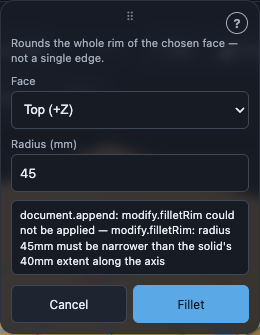
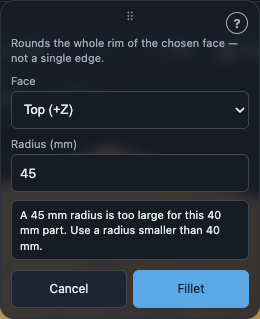
fix(ui): plain fillet, size and broken-step messages (TODO/ui-129)
The fillet, size-field and broken-step messages came from the kernel and the document in the form the console and the tests need: an op id, a parameter path, record ids and lineage wording. Those reached the people using the popovers, the Inspector, the History row and the Assistant's activity log unchanged. A new framework-free module, src/core/userReason.js, maps the known messages to plain sentences. It is applied only at the display points, and it returns any message it does not know unchanged. The console, the MCP tools and the tests still get the raw text.

Resolves TODO/FIND-ui-129-error-and-repair-wording-leaks-internals.md (moved to TODO/done/ui-129-error-and-repair-wording-leaks-internals.md). The broken History row's layout half is filed as TODO/FIND-ui-146-broken-history-row-one-name-and-visible-repair.md (split recorded as OWNER.md Q98). The problems were filed from the testing-029 cold-read panel.

Examples: a 45 mm fillet radius on a 40 mm part reads "A 45 mm radius is too large for this 40 mm part. Use a radius smaller than 40 mm." A zero height reads "Height must be more than 0 mm." The superseded-step message drops the record ids and lineage wording. plainIdsIn tidies replica ids in the Assistant's activity rows (cuboid-k3f5xa-1 reads Cuboid 1) and keeps the full text in a tooltip. The Assistant's image notice now says the image is billed to the user's own API key (OWNER.md Q12).
[…]

diff --git a/src/core/userReason.js b/src/core/userReason.js
@@ -1,0 +1,98 @@
+// SPDX-License-Identifier: AGPL-3.0-or-later
+/**
+ * The plain-language sentence for a kernel or document message, for the **display boundary**
+ * only (`TODO/ui-129`).
+ *
+ * The kernel's messages name the op and the parameter (`primitive.cylinder: height must be a
+ * positive number of millimetres, got 0`) because the console, the MCP tools and the tests need
+ * exactly that. A person reading the Inspector, a popover or a History row needs the sentence.
+ * This maps the known messages to one and returns anything it does not know untouched, so a new
+ * kernel message degrades to its raw text and never to an empty string.
+ *
+ * Framework-free and pure: it never reads the document and never throws.
+ *
+ * @module core/userReason
+ */
+
+/** A replica's project tag: base-36 digits and letters, at least one digit (so `phone` is a word, not a tag). */
+const TAG = '(?=[a-z]*\\d)[a-z0-9]{4,8}'
+/** `cuboid-k3f5xa-1`: a kind, the project tag, a counter. Groups: kind, counter (the whole is group 0). */
+const BASE_ID = `([a-z][a-z0-9]*)-${TAG}-(\\d+)`
+const ID_IN_TEXT = new RegExp(`\\b[a-z][a-z0-9]*-${TAG}-\\d+(?:-[a-z]+-${TAG}-\\d+)?\\b`, 'g')
+
+/** `size[0]` → `Size X`; `height` → `Height`; `cornerRadius` → `Corner radius`. */
+const AXES = ['X', 'Y', 'Z']
+
+/**
+ * @param {string} key a parameter path as the kernel names it
+ * @returns {string} the label a person would read
+ */
+function labelOfParam(key) {
+  const indexed = /^(\w+)\[(\d)\]$/.exec(key)
+  if (indexed) return `${labelOfParam(indexed[1])} ${AXES[Number(indexed[2])] ?? indexed[2]}`
+  const words = key.replace(/([a-z0-9])([A-Z])/g, '$1 $2').toLowerCase()
+  return words.charAt(0).toUpperCase() + words.slice(1)
+}
+
+/** @param {string} text @returns {string} the number as a person writes it: no sign, no trailing zeros */
+const plainNumber = (text) => String(Math.abs(Number(text)))
+
+/**
+ * @param {unknown} message a raw `Error.message` (or a string)
+ * @returns {string} a sentence a user can act on, or the message unchanged when it is not one this knows
+ */
+export function userReason(message) {
+  const text = typeof message === 'string' ? message : message instanceof Error ? message.message : String(message ?? '')
+  // The document wraps a rejected record as `document.append: <op> could not be applied — <kernel text>`.
+  const core = text.replace(/^document\.append: /, '').replace(/^\S+ could not be applied — /, '')
+
+  // A fillet or chamfer radius at or past the solid's extent.
+  const fillet = /^[\w.]+: radius (-?[\d.]+)mm must be narrower than the solid's ([\d.]+)mm extent along the axis$/.exec(core)
+  if (fillet) {
+    return `A ${plainNumber(fillet[1])} mm radius is too large for this ${plainNumber(fillet[2])} mm part. Use a radius smaller than ${plainNumber(fillet[2])} mm.`
+  }
+
+  // A size field that must be more than zero.
+  const positive = /^[\w.]+: ([\w[\]]+) must be a positive number of millimetres, got .*$/.exec(core)
+  if (positive) return `${labelOfParam(positive[1])} must be more than 0 mm.`
+
+  // A step that points at a body a later step already replaced.
+  if (/which has itself already been superseded by ".*" — forking a lineage would put two live representations of one body on screen$/.test(core)) {
+    return "This step can't be built because a later step already changed the part it works on, for example a move made after you rolled back. Use Re-link to follow the moved part, or edit the earlier step."
+  }
+  return text
+}
+
+/**
+ * A record id as a person reads it: the project tag every replica adds is dropped, the counter
+ * kept. `cuboid-k3f5xa-1` → `Cuboid 1`; `cuboid-k3f5xa-1-move-k3f5xa-4` → `Move of Cuboid 1 (4)`.
+ * Anything that does not look like a replica id comes back unchanged. The full id stays in the
+ * tooltip, the raw log and the MCP responses; this is for the readout only.
+ *
+ * @param {string} id
+ * @returns {string}
+ */
+export function plainRecordId(id) {
+  const base = new RegExp(`^${BASE_ID}$`).exec(id)
+  if (base) return `${capitalise(base[1])} ${base[2]}`
+  const derived = new RegExp(`^(${BASE_ID})-([a-z]+)-${TAG}-(\\d+)$`).exec(id)
+  if (derived) return `${capitalise(derived[4])} of ${plainRecordId(derived[1])} (${derived[5]})`
+  return id
+}
+
+/**
+ * Every replica id inside a sentence, tidied by {@link plainRecordId}; the rest of the text is
+ * untouched. For a readout that quotes ids (the Assistant's activity rows).
+ *
+ * @param {string} text
+ * @returns {string}
+ */
+export function plainIdsIn(text) {
+  if (typeof text !== 'string' || text === '') return text
+  return text.replace(ID_IN_TEXT, (match) => plainRecordId(match))
+}
+
+/** @param {string} word @returns {string} */
+function capitalise(word) {
+  return word.charAt(0).toUpperCase() + word.slice(1)
+}

diff --git a/src/core/userReason.spec.js b/src/core/userReason.spec.js
@@ -1,0 +1,70 @@
+// SPDX-License-Identifier: AGPL-3.0-or-later
+import { describe, expect, it } from 'vitest'
+
+import { plainIdsIn, plainRecordId, userReason } from './userReason.js'
+
+describe('userReason (TODO/ui-129)', () => {
+  it('words a fillet radius past the extent as a limit, not as an op id', () => {
+    expect(userReason("modify.filletRim: radius 45mm must be narrower than the solid's 40mm extent along the axis")).toBe(
+      'A 45 mm radius is too large for this 40 mm part. Use a radius smaller than 40 mm.',
+    )
+    expect(userReason("modify.chamferRim: radius -45mm must be narrower than the solid's 40mm extent along the axis")).toMatch(/^A 45 mm radius/)
+  })
+
+  it('reads through the document wrapper around a rejected record', () => {
+    expect(
+      userReason("document.append: modify.filletRim could not be applied — modify.filletRim: radius 45mm must be narrower than the solid's 40mm extent along the axis"),
+    ).toBe('A 45 mm radius is too large for this 40 mm part. Use a radius smaller than 40 mm.')
+    expect(userReason('document.append: primitive.cylinder could not be applied — primitive.cylinder: height must be a positive number of millimetres, got 0')).toBe(
+      'Height must be more than 0 mm.',
+    )
+  })
+
+  it('words a size that must be more than zero, for a plain field and an indexed one', () => {
+    expect(userReason('primitive.cylinder: height must be a positive number of millimetres, got 0')).toBe('Height must be more than 0 mm.')
+    expect(userReason('primitive.cuboid: size[0] must be a positive number of millimetres, got -5')).toBe('Size X must be more than 0 mm.')
+    expect(userReason('primitive.cuboid: size[2] must be a positive number of millimetres, got NaN')).toBe('Size Z must be more than 0 mm.')
+    expect(userReason('primitive.tube: cornerRadius must be a positive number of millimetres, got 0')).toBe('Corner radius must be more than 0 mm.')
+  })
+
+  it('words a step that points at an already-replaced body without record ids', () => {
+    const raw =
+      'supersedes "cuboid-k3f5xa-1", which has itself already been superseded by "cuboid-k3f5xa-1-move-k3f5xa-4" — forking a lineage would put two live representations of one body on screen'
+    const plain = userReason(`can't be built: ${raw}`)
+    expect(plain).not.toMatch(/cuboid-|supersed|lineage/)
+    expect(plain).toMatch(/later step already changed the part/)
+    expect(userReason(raw)).toBe(plain)
+  })
+
+  it('returns an unknown message untouched, and never throws or empties', () => {
+    expect(userReason('something the kernel says that this does not know')).toBe('something the kernel says that this does not know')
+    expect(userReason('')).toBe('')
+    expect(userReason(null)).toBe('')
+    expect(userReason(new Error('x: y'))).toBe('x: y')
+  })
+})
+
+describe('plainRecordId (TODO/ui-129)', () => {
+  it('drops the project tag and keeps the counter', () => {
+    expect(plainRecordId('cuboid-k3f5xa-1')).toBe('Cuboid 1')
+    expect(plainRecordId('cylinder-ab12cd-12')).toBe('Cylinder 12')
+  })
+
+  it('reads a derived step as its action on its source', () => {
+    expect(plainRecordId('cuboid-k3f5xa-1-move-k3f5xa-4')).toBe('Move of Cuboid 1 (4)')
+  })
+
+  it('leaves anything that is not a replica id alone', () => {
+    expect(plainRecordId('bolt-1')).toBe('bolt-1')
+    expect(plainRecordId('kit-phone-12')).toBe('kit-phone-12')
+    expect(plainRecordId('')).toBe('')
+  })
+
+  it('tidies every id inside a sentence and nothing else', () => {
+    expect(plainIdsIn('Moved cuboid-k3f5xa-1 by 5 mm, then cuboid-k3f5xa-1-move-k3f5xa-4 to z 3')).toBe(
+      'Moved Cuboid 1 by 5 mm, then Move of Cuboid 1 (4) to z 3',
+    )
+    expect(plainIdsIn('Snapped kit-phone-12 to the grid')).toBe('Snapped kit-phone-12 to the grid')
+    expect(plainIdsIn('')).toBe('')
+  })
+})

diff --git a/src/components/viewport/OperationsToolbar.vue b/src/components/viewport/OperationsToolbar.vue
@@ -330,6 +330,7 @@ import { useSelectionStore } from '../../stores/selection.js'
 import { useSplitSheetStore } from '../../stores/splitSheet.js'
 import { RIM_FACE_OPTIONS } from '../../core/timelineLabel.js'
 import { useTimelineStore } from '../../stores/timeline.js'
+import { userReason } from '../../core/userReason.js'
 import { usePanelLayoutStore } from '../../stores/panelLayout.js'
 import { useTierCrossfade } from '../../composables/useTierCrossfade.js'
 import { usePopoverDrag } from '../../composables/usePopoverDrag.js'
@@ -1846,7 +1847,7 @@ onBeforeUnmount(() => closeGroup())
     <!-- A `pieces` address the kernel rejects, surfaced where it happened
          rather than in the console — the path Fillet/Chamfer established and
          Snap/Align reused (TODO/ui-040). -->
-    <p v-if="runError" class="ops__error" data-testid="operation-error">{{ runError }}</p>
+    <p v-if="runError" class="ops__error" data-testid="operation-error">{{ userReason(runError) }}</p>
 
     <!-- TODO/core-079: a cut with a whole multi-part model runs in the evaluation worker, so the
          app keeps drawing; this line is the feedback that it is on its way. -->
@@ -1901,7 +1902,7 @@ onBeforeUnmount(() => closeGroup())
         <!-- The first user-facing runtime kernel-error path on this toolbar —
              see the module doc's §3 and `commitFilletChamfer`'s own comment. -->
         <p v-if="opError" class="ops__popover-error" data-testid="fillet-chamfer-error">
-          {{ opError }}
+          {{ userReason(opError) }}
         </p>
 
         <div class="ops__popover-actions">
@@ -2028,7 +2029,7 @@ onBeforeUnmount(() => closeGroup())
 
         <!-- Same first-user-facing-kernel-error path Fillet/Chamfer established. -->
         <p v-if="opError" class="ops__popover-error" data-testid="resize-error">
-          {{ opError }}
+          {{ userReason(opError) }}
         </p>
 
         <div class="ops__popover-actions">
@@ -2074,7 +2075,7 @@ onBeforeUnmount(() => closeGroup())
           centre — a symmetric shape then lands exactly on itself.
         </p>
         <p v-if="opError" class="ops__popover-error" data-testid="mirror-error">
-          {{ opError }}
+          {{ userReason(opError) }}
         </p>
         <div class="ops__popover-actions">
           <BaseButton size="compact" fill data-testid="mirror-cancel" @click="closePopover">

diff --git a/src/components/ai/ActivityRow.vue b/src/components/ai/ActivityRow.vue
@@ -19,6 +19,8 @@
  */
 import { computed, ref } from 'vue'
 
+import { plainIdsIn, userReason } from '../../core/userReason.js'
+
 const props = defineProps({
   item: { type: /** @type {import('vue').PropType<import('../../ai/transcript.js').ToolItem>} */ (Object), required: true },
   /** What the assistant did right after this row (error rows only). */
@@ -41,7 +43,7 @@ const expanded = ref(false)
 
 const result = computed(() => {
   if (props.item.status === 'running') return 'working'
-  if (props.item.status === 'error') return props.item.error ?? 'failed'
+  if (props.item.status === 'error') return plainIdsIn(userReason(props.item.error ?? 'failed'))
   if (props.item.status === 'discarded') return 'not kept'
   return ''
 })
@@ -62,9 +64,9 @@ const result = computed(() => {
     >
       <span class="row__glyph" aria-hidden="true">{{ glyph }}</span>
       <span class="row__body">
-        <span class="row__label" data-testid="ai-activity-label">{{ item.label }}</span>
+        <span class="row__label" data-testid="ai-activity-label" :title="item.label">{{ plainIdsIn(item.label) }}</span>
         <span v-if="result" class="row__result" data-testid="ai-activity-result">{{ result }}</span>
-        <span v-if="item.summary && item.status === 'ok'" class="row__summary" data-testid="ai-activity-summary">{{ item.summary }}</span>
+        <span v-if="item.summary && item.status === 'ok'" class="row__summary" data-testid="ai-activity-summary" :title="item.summary">{{ plainIdsIn(item.summary) }}</span>
         <span v-if="item.status === 'error' && next" class="row__next" data-testid="ai-activity-next">Then: {{ next }}</span>
       </span>
     </button>

diff --git a/src/components/inspector/ParamFields.vue b/src/components/inspector/ParamFields.vue
@@ -34,6 +34,7 @@ import { useDocumentStore } from '../../stores/document.js'
 import { useModelImportStore } from '../../stores/modelImport.js'
 import { useTimelineStore } from '../../stores/timeline.js'
 import { useRepairDialogStore } from '../../stores/repairDialog.js'
+import { userReason } from '../../core/userReason.js'
 import { useSelectionStore } from '../../stores/selection.js'
 import { useVariablesUiStore } from '../../stores/variablesUi.js'
 import ParamBindButton from './ParamBindButton.vue'
@@ -583,11 +584,11 @@ function onEnumChange(event, field) {
             />
           </dd>
         </template>
-        <dd v-if="invalidFor(field.key)" class="params__error params__error--field" role="alert" data-testid="inspector-param-error">{{ paramError }}</dd>
+        <dd v-if="invalidFor(field.key)" class="params__error params__error--field" role="alert" data-testid="inspector-param-error">{{ userReason(paramError) }}</dd>
       </template>
     </dl>
 
-    <p v-if="orphanError" class="params__error" role="alert" data-testid="inspector-param-error">{{ paramError }}</p>
+    <p v-if="orphanError" class="params__error" role="alert" data-testid="inspector-param-error">{{ userReason(paramError) }}</p>
 
     <!-- Drilled into one part of a composite: its parent's choices, read-only, and the way
          back up to where they can be changed (TODO/ui-052). -->

diff --git a/src/components/timeline/TimelineRow.vue b/src/components/timeline/TimelineRow.vue
@@ -40,6 +40,7 @@ import NumberField from '../controls/NumberField.vue'
 import BaseChip from '../display/BaseChip.vue'
 import { useTimelineCommands } from '../../composables/useTimelineCommands.js'
 import { originChipText } from '../../core/origin.js'
+import { userReason } from '../../core/userReason.js'
 import { useTimelineStore } from '../../stores/timeline.js'
 
 const props = defineProps({
@@ -93,9 +94,10 @@ const rollbackVerdict = computed(() => {
 
 /** The `broken` reason to show: the shadow check's, or the last refusal's. */
 const brokenReason = computed(() => {
-  if (props.row.broken !== null) return props.row.broken
+  // `TODO/ui-129`: the plain sentence; the raw text (record ids and all) stays in the document.
+  if (props.row.broken !== null) return userReason(props.row.broken)
   const failing = timeline.error?.broken
-  return failing && failing.id === props.row.id ? failing.reason : null
+  return failing && failing.id === props.row.id ? userReason(failing.reason) : null
 })
 
 // Selecting a different row closes any form this one had open, so an abandoned

diff --git a/e2e/timeline-panel.e2e.js b/e2e/timeline-panel.e2e.js
@@ -597,7 +597,7 @@ test('TODO/data-006: Re-link points a broken tail row at the body an insert move
   // and it is *offered* the re-link — nothing re-pointed yet.
   await expect(page.getByTestId('timeline-row-3').getByTestId('chip-broken')).toBeVisible()
   await page.getByTestId('timeline-row-3').click()
-  await expect(page.getByTestId('timeline-broken-reason')).toContainText('has itself already been superseded')
+  await expect(page.getByTestId('timeline-broken-reason')).toContainText('a later step already changed the part it works on')
   const relink = page.getByTestId('timeline-relink')
   await expect(relink).toBeVisible()
   await expect(relink).toBeEnabled()

diff --git a/src/components/timeline/TimelineStrips.vue b/src/components/timeline/TimelineStrips.vue
@@ -32,6 +32,7 @@ import { onBeforeUnmount, onMounted } from 'vue'
 
 import BaseButton from '../controls/BaseButton.vue'
 import { useTimelineCommands } from '../../composables/useTimelineCommands.js'
+import { userReason } from '../../core/userReason.js'
 import { useTimelineStore } from '../../stores/timeline.js'
 
 const timeline = useTimelineStore()
@@ -102,7 +103,7 @@ onBeforeUnmount(() => window.removeEventListener('keydown', onKeydown))
       role="alert"
       data-testid="timeline-error"
     >
-      {{ timeline.error.message }}
+      {{ userReason(timeline.error.message) }}
     </p>
   </div>
 </template>

diff --git a/e2e/fillet-chamfer-operation.e2e.js b/e2e/fillet-chamfer-operation.e2e.js
@@ -287,7 +287,8 @@ test('a radius the kernel rejects (>= the solid\'s own extent) surfaces visibly 
 
   const error = page.getByTestId('fillet-chamfer-error')
   await expect(error).toBeVisible()
-  await expect(error).not.toHaveText('')
+  // TODO/ui-129: the plain sentence, with the limit, and no op id.
+  await expect(error).toHaveText('A 45 mm radius is too large for this 40 mm part. Use a radius smaller than 40 mm.')
 
   // Nothing committed: the popover stays open (so the value can be corrected)
   // and the body is untouched.

diff --git a/e2e/inspector-param-edit.e2e.js b/e2e/inspector-param-edit.e2e.js
@@ -343,7 +343,8 @@ test('a value the kernel rejects is shown in the panel and commits nothing', asy
 
   const error = page.getByTestId('inspector-param-error')
   await expect(error).toBeVisible()
-  await expect(error).not.toHaveText('')
+  // TODO/ui-129: no op id, and the limit as a sentence.
+  await expect(error).toHaveText('Diameter must be more than 0 mm.')
 
   // Nothing committed: still one body, same size, same place.
   await expect(page.getByTestId('viewport')).toHaveAttribute('data-body-count', '1')

diff --git a/src/composables/useAgent.js b/src/composables/useAgent.js
@@ -246,7 +246,7 @@ export function useAgent() {
         kind: 'notice',
         level: 'info',
         // v1 is Anthropic-only (docs/decisions/ai-partner.md).
-        message: 'Image sent to Anthropic with your request, using your key. It is not sent anywhere else.',
+        message: 'Image sent to Anthropic with your request and billed to your own API key. It is not sent anywhere else.',
       })
     }
     chat.running = true

diff --git a/TODO/ACCEPTANCE.md b/TODO/ACCEPTANCE.md
@@ -3664,6 +3664,7 @@ preview strip and the rollback strip (with **Roll forward**), and the header's *
   moves or disappears, the refused `25` is committed (the row reads `25 mm`), or nothing at all
   is said — the exact failure class `SECOND-ATTEMPT.md` and this file both exist to catch.
 
+**Last run**: 2026-11-18 UTC (`ui-129`, uncommitted tree, production build) — **PASS (by spec)**: `timeline-panel` (the data-006 broken row now reads the plain sentence and Re-link still builds it) and `inspector-param-edit` (a zero diameter reads *Diameter must be more than 0 mm.*) green on chromium-laptop + firefox-phone and on webkit-phone + firefox-tablet (1232 and 1167 passed, 0 failed), plus `fillet-chamfer-operation` (*A 45 mm radius is too large for this 40 mm part…*). Not hand-driven.
 **Last run**: 2026-11-13 23:20 UTC (`ui-115`, uncommitted tree, production build via `vite preview`, exploratory Playwright script with real `page.mouse` and `page.keyboard` on a fresh Chromium context, laptop 1440x900) — **PASS**: Cube, 5 mm chamfer, Sphere; History rows `Cube 1 — placed`, `Chamfer Top (+Z) 5 mm on Cube 1`, `Sphere 1 — placed`; Edit showed Radius as a text field reading `5`, typed `3,0`, Apply; the row became `… 3 mm …`, cube volume rose, sphere bounds and volume identical; Undo restored the 5 mm volume, Redo the 3 mm row; Suppress returned the cube to 64000 mm3, Unsuppress re-applied the chamfer. Console clean.
 **Last run**: 2026-11-08 23:12 UTC (`testing-034`, uncommitted tree, production build via `vite preview`, real jittered mouse, fresh context) — **PASS** at laptop 1440x900 Chromium, steps 1-12, with step 12 rewritten to break a later Subtract instead of a second rim operation. Steps 1-11 as before (chamfer 5 to 3 mm: cube 62166.667 to 63316.000, Sphere byte-identical; Undo/Redo and Ctrl+Z; Suppress 64000.000; rollback, Cone, Roll forward; Move up and Undo). Step 12: Subtract Cube 1 + Sphere 1 (Subtract 1 at 63316.000), Chamfer edit to `18` applied (Subtract 1 at 45856.000, no `broken` chip), edit to `25` refused with `Step 2 (Chamfer Top (+Z) 18 mm on Cube 1) can't be built: modify.chamferRim: radius 25mm is wider than the cross-section can absorb ...`, Chamfer row chipped `broken`, form open; after Cancel and Back to latest the row read `18 mm`, five rows, Subtract 1 at 45856.000, no `broken` chip. Observation: the Subtract row itself never gets a `broken` chip, because the refusal stops at the chamfer, the step that cannot be built; while the message is up the preview shows only the cube (read-only, step 2 of 5). Console clean apart from WebGL GPU-stall warnings.
 **Last run**: 2026-11-07 16:25 UTC (`core-080`, uncommitted tree, production build via `vite preview`, exploratory scripts with a jittered real mouse, fresh contexts) — **PASS** at laptop 1440x900 Chromium, for a rounded Cube as the early step. Cube with Corner radius `5`, **Chamfer** Top (+Z) `3` mm (63105.8 → 62453.3 mm³), Sphere dropped; History `Cube 1 — placed` / `Chamfer Top (+Z) 3 mm on Cube 1` / `Sphere 1 — placed`. Tapping the Cube row showed `Previewing step 1 of 3 — read-only`; **Edit**, Round radius `8`, **Apply**: the chamfer re-applied (61121.4 mm³; Suppress showed the bare r8 cube at 61750.9, Unsuppress back to 61121.4), the row still `3 mm`, nothing broken, the Sphere at the same bounds and volume. A second project: a later **Subtract** (Cube 1 minus an offset Cylinder 1, 41574.5 mm³) re-folded when the Cube row was edited to radius `10` (39947.8 mm³). One Undo went back to 41574.5 and Redo to 39947.8. Radius `20` from the same form was refused with `Step 1 (Cube 1 — placed) can't be built: primitive.cuboid: roundRadius must be smaller than half the shortest side (20 mm), got 20`; after Cancel the r10 Subtract stood, and one Undo went straight to r5, so the refused edit never committed. Observations, not failures: the History form shows **Round axis** only when the record carries `roundAxis` (shown for an X-axis cube, absent for a default one), and the form labels read *Round radius / Round axis* where the Inspector says *Corner radius / Rounded axis*. Steps 9-12 (rollback, Move up, fillet break) not re-driven. Console clean.
@@ -4377,6 +4378,7 @@ not that a model's turn stays out of the way.
   header **Undo** that removes an Assistant step, a Watch that writes to the project, or a chip
   that stays after the turn ends.
 
+**Last run**: 2026-11-18 UTC (`ui-129`, uncommitted tree, production build) — **PASS (by spec)**: the activity rows read `plainIdsIn`/`userReason` text; covered by `userReason.spec.js` (9 tests) and the `ai` specs in the same two pair runs (0 failed). Not hand-driven.
 **Last run**: 2026-11-13 17:35 UTC (`ui-110`, uncommitted tree, `dist-e2e` build via `vite preview`, exploratory Playwright script, chromium laptop 1440x900 and phone 390x844 touch, Anthropic API stubbed through routing, no real key) — **PARTIAL, the sheet half only**: Key sheet saved a stubbed key (`Connected`), Escape closed it and focus returned to **Assistant**; the chat panel opened (laptop 340 wide beside a 634 px view; phone 390x304 over a 738 px view, the view stays visible) and Escape closed it. Steps 1-7 (a model turn, Watch, Undo AI turn, Stop) were not driven: they need a real key, and key-needing runs bill tokens, so the stubbed `ai-chat` and `ai-live-bridge` specs stand in for the plumbing.
 **Last run**: 2026-11-03 UTC (`ai-034`, uncommitted tree) — **PASS, scripted transcript instead of a key** at laptop 1440x900 and phone 390x844 Chromium (real `page.mouse`, jittered 24-step Library drags, dev server): the header chip showed during the turn; with the panel closed a Cylinder dropped mid-turn (count 2); the turn finished at 4 (laptop and phone), the chip gone; **Undo AI turn** left the user's 2. Console and page errors: none. Not driven: Watch, Stop, the conflict case, a real model. (A first phone pass dropped a Sphere from a Library row below the fold; that was the driver, and Cylinder worked.)
 **Last run**: 2026-11-02 20:10 UTC (`core-076`, uncommitted tree) — **PASS, scripted only**: `e2e/ai-scripted.e2e.js`'s edit-while-working transcripts, 8 of 8 on two serial runs. Not hand-driven.
